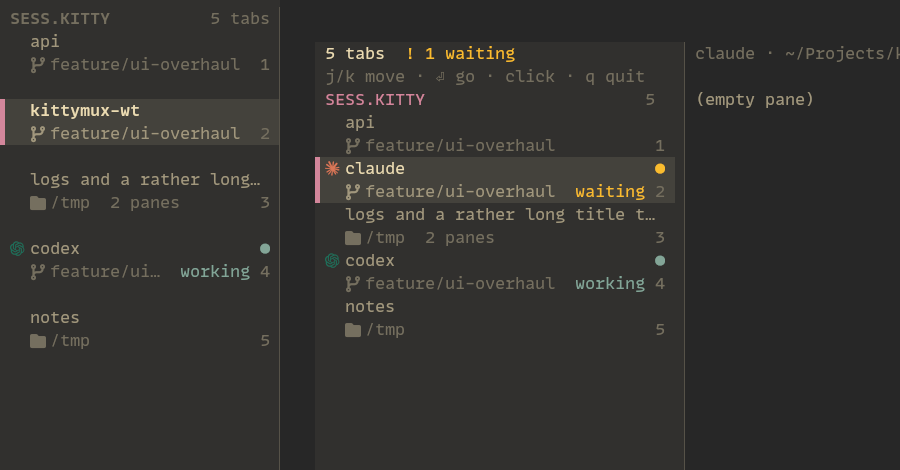
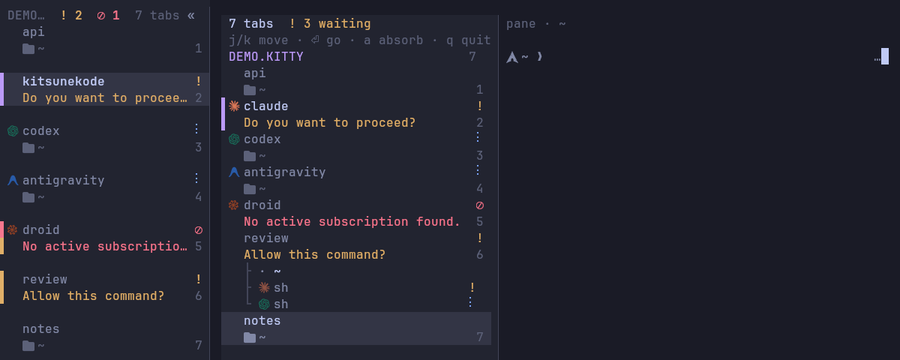
panes: title bars off by default (ctrl+alt+shift+h toggles them as drag handles); refreshed demo gif/status/deck screenshots from the real thing (tools/record-demo.sh); demo session adds droid + a split tab, geninclude so the collapse button works

diff --git a/README.md b/README.md
@@ -9,7 +9,7 @@ blocked on you. A *config layer*, not a daemon — Linux, Wayland, Hyprland-frie
 zero background processes.
 
 <p align="center">
-  <img src="assets/demo.gif" alt="kittymux: an agent starts waiting, the sidebar deck lists every tab with its status and message, leader mode" width="720">
+  <img src="assets/demo.gif" alt="kittymux: a vertical tab bar with agent states, the deck with a split tab's pane tree and live preview, a right-click peek card, and the collapse button" width="720">
 </p>
 
 ## Try it in 30 seconds
@@ -122,7 +122,7 @@ OS window ──┬── session: work      (visible — bar shows these tabs o
 | `ctrl+alt+\`` | flip to previously active tab (MRU) |
 | `ctrl+alt+h j k l` | pane nav (`shift+alt+arrows`) · `ctrl+alt+o` last pane |
 | `ctrl+alt+enter` | split horizontal · `+shift` vertical |
-| `ctrl+alt+d` / `+shift` | pane → new tab / chooser |
+| `ctrl+alt+d` / `+shift` | pane → new tab / chooser · `ctrl+alt+shift+h` shows/hides pane title bars (the drag handles) |
 | `ctrl+alt+z` / `0` | zoom pane / equalize |
 | `ctrl+alt+i` (×2) | cwd pill → detail card (copy path/branch) |
 | `ctrl+alt+u` | agent usage HUD |
@@ -153,7 +153,7 @@ nothing gets silently swallowed.
 
 ## Agent status
 
-<img src="assets/status.png" alt="vertical tab bar: Claude waiting with its question as the reason, Codex and Antigravity working with spinners" width="640">
+<img src="assets/status.png" alt="vertical tab bar: Claude and a split tab waiting with their questions, Codex and Antigravity working, Factory droid out of quota (⊘), header badges" width="640">
 
 Every tab with an agent in it shows exactly one of these, and the tab bar, the deck, the docked
 panel and the `ctrl+alt+y` jump queue all show the *same* one:
@@ -321,8 +321,9 @@ Kitty has native drag and drop; kittymux makes it work in the vertical bar:
 - **Reorder tabs** — press and drag a tab in the bar. (Kitty used to treat the blank line between
   vertical tabs as "no tab", so dragging over it threw the tab to the end of the list; the gap now
   belongs to the nearer tab, and clicking it selects that tab.)
-- **Split → tab** — with two or more panes, each pane gets a thin title bar (`window_title_bar` in
-  `kittymux.conf`). Drag it onto **"+"** or empty bar space to turn that split into its own tab.
+- **Split → tab** — press `ctrl+alt+shift+h` to show a thin title bar on every pane (they are hidden
+  otherwise, so splits stay clean), drag one onto **"+"** or empty bar space to turn that split into its
+  own tab, then press the key again to hide the bars.
 - **Tab ← split** — drag a pane's title bar onto **a tab in the bar** to move the split into that tab.
 - **Re-split** — drop it on another pane's edge to insert it there, or on that pane's title bar to swap.
 - **Keyboard** — `ctrl+alt+d` pane → new tab · `ctrl+alt+shift+d` pane → a tab you pick (a one-pane tab
